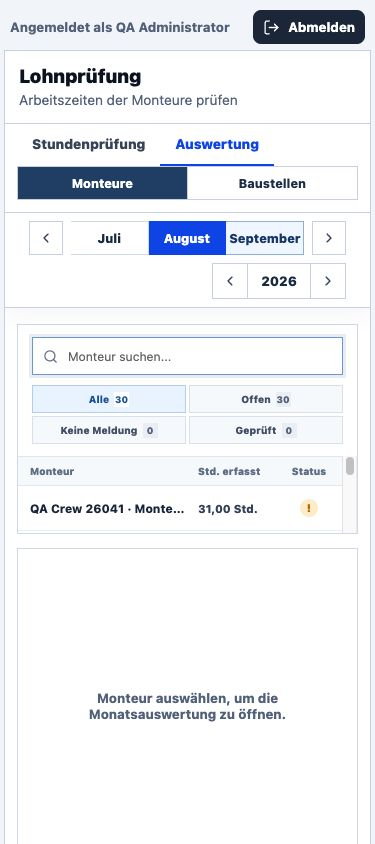
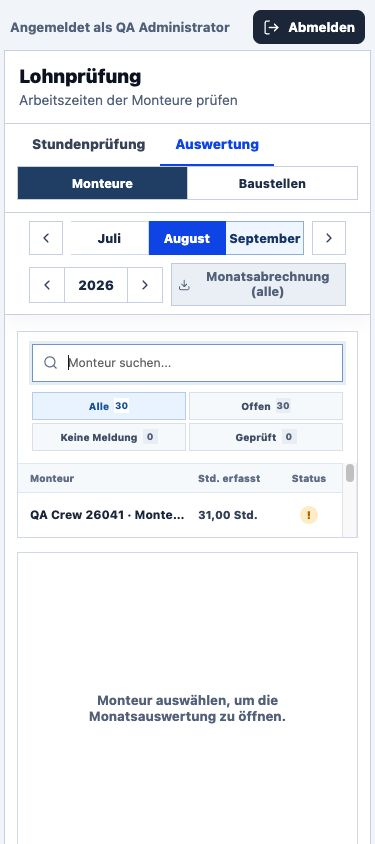
Lohnprüfung: Monatsabrechnungs-Download vorbereiten

Changed region(s): [[0.0587, 0.3081, 0.9387, 0.6469], [0.2347, 0.8009, 0.7627, 0.8626], [0.9093, 0.5237, 0.9387, 0.5853]]

diff --git a/frontend/src/pages/TimeEntriesPage.tsx b/frontend/src/pages/TimeEntriesPage.tsx
@@ -2600,26 +2600,41 @@ export function TimeEntriesPage() {
                   <ChevronRight aria-hidden="true" size={16} />
                 </button>
               </div>
-              <div className="time-evaluation-year-navigation" role="group" aria-label="Auswertungsjahr">
+              <div className="time-evaluation-period-actions">
+                <div className="time-evaluation-year-navigation" role="group" aria-label="Auswertungsjahr">
+                  <button
+                    className="time-week-scroll-button"
+                    disabled={selectedEvaluationMonth.year <= 2000}
+                    type="button"
+                    aria-label="Vorheriges Jahr auswählen"
+                    onClick={() => selectEvaluationYear(selectedEvaluationMonth.year - 1)}
+                  >
+                    <ChevronLeft aria-hidden="true" size={16} />
+                  </button>
+                  <span aria-live="polite">{selectedEvaluationMonth.year}</span>
+                  <button
+                    className="time-week-scroll-button"
+                    disabled={selectedEvaluationMonth.year >= 2100}
+                    type="button"
+                    aria-label="Nächstes Jahr auswählen"
+                    onClick={() => selectEvaluationYear(selectedEvaluationMonth.year + 1)}
+                  >
+                    <ChevronRight aria-hidden="true" size={16} />
+                  </button>
+                </div>
                 <button
-                  className="time-week-scroll-button"
-                  disabled={selectedEvaluationMonth.year <= 2000}
+                  aria-describedby="time-evaluation-monthly-download-status"
+                  className="time-evaluation-monthly-download-button"
+                  disabled
+                  title="Noch keine Excel-Vorlage für die Monatsabrechnung hinterlegt."
                   type="button"
-                  aria-label="Vorheriges Jahr auswählen"
-                  onClick={() => selectEvaluationYear(selectedEvaluationMonth.year - 1)}
                 >
-                  <ChevronLeft aria-hidden="true" size={16} />
+                  <Download aria-hidden="true" size={14} />
+                  <span>Monatsabrechnung (alle)</span>
                 </button>
-                <span aria-live="polite">{selectedEvaluationMonth.year}</span>
-                <button
-                  className="time-week-scroll-button"
-                  disabled={selectedEvaluationMonth.year >= 2100}
-                  type="button"
-                  aria-label="Nächstes Jahr auswählen"
-                  onClick={() => selectEvaluationYear(selectedEvaluationMonth.year + 1)}
-                >
-                  <ChevronRight aria-hidden="true" size={16} />
-                </button>
+                <span className="sr-only" id="time-evaluation-monthly-download-status">
+                  Der Download wird verfügbar, sobald eine Excel-Vorlage hinterlegt ist.
+                </span>
               </div>
             </div>
           </div>

diff --git a/frontend/src/styles.css b/frontend/src/styles.css
@@ -17457,6 +17457,51 @@ body.mobile-modal-scroll-locked {
   background: #ffffff;
 }
 
+.time-evaluation-period-actions {
+  display: inline-flex;
+  min-width: 0;
+  align-items: center;
+  justify-self: end;
+  gap: 8px;
+}
+
+.time-evaluation-monthly-download-button {
+  display: inline-flex;
+  min-height: 36px;
+  align-items: center;
+  justify-content: center;
+  gap: 6px;
+  border: 1px solid var(--time-week-active-blue);
+  border-radius: 0;
+  background: var(--time-week-active-blue);
+  color: #ffffff;
+  font: inherit;
+  font-size: 0.78rem;
+  font-weight: 800;
+  line-height: 1.15;
+  padding: 6px 12px;
+  white-space: nowrap;
+}
+
+.time-evaluation-monthly-download-button:hover:not(:disabled),
+.time-evaluation-monthly-download-button:focus-visible:not(:disabled) {
+  background: #1d4268;
+  border-color: #1d4268;
+}
+
+.time-evaluation-monthly-download-button:focus-visible {
+  outline: none;
+  box-shadow: 0 0 0 3px rgb(40 79 118 / 22%);
+}
+
+.time-evaluation-monthly-download-button:disabled {
+  border-color: #cbd5e1;
+  background: #eef2f7;
+  color: #64748b;
+  cursor: not-allowed;
+  opacity: 1;
+}
+
 .time-evaluation-year-navigation > span {
   display: inline-grid;
   min-width: 64px;
@@ -20534,7 +20579,7 @@ body.mobile-modal-scroll-locked {
     gap: 8px;
   }
 
-  .time-evaluation-year-navigation {
+  .time-evaluation-period-actions {
     justify-self: end;
   }
 
@@ -20613,6 +20658,18 @@ body.mobile-modal-scroll-locked {
 }
 
 @media (max-width: 420px) {
+  .time-evaluation-period-actions {
+    display: grid;
+    grid-template-columns: auto minmax(0, 1fr);
+    width: 100%;
+  }
+
+  .time-evaluation-monthly-download-button {
+    min-width: 0;
+    padding-inline: 6px;
+    white-space: normal;
+  }
+
   .time-evaluation-month-strip button {
     min-width: 0;
     font-size: 0.78rem;
